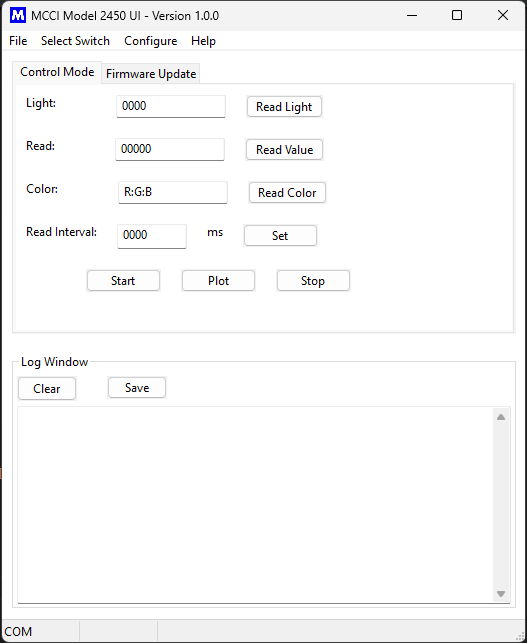
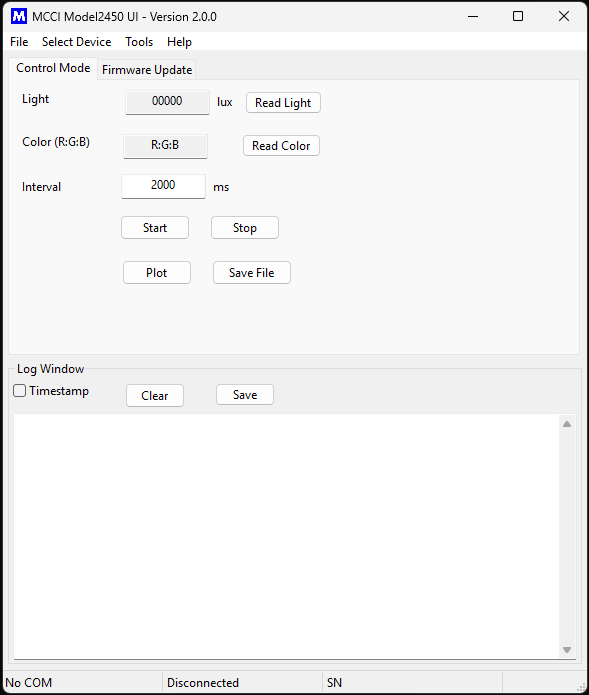
updated README.md

diff --git a/README.md b/README.md
@@ -79,6 +79,13 @@ the Model 2450 allows you to test the Brightness and color of video displays on 
 
 ## Release History
 
+- v2.0.0 Release Model 2450 UI
+
+    -  [#4 adding plotting for stream ](https://github.com/mcci-usb/model2450-ui/commit/d837fcad54a1a84dd0a923c8f14cc0e69c29011c)
+    -  [#6 Model2450 search](https://github.com/mcci-usb/model2450-ui/commit/e47b86699ee8f850378dfbb29ad00de6c4a3fdc9)
+    - [#7 Add Timestampe](https://github.com/mcci-usb/model2450-ui/commit/cb856f3cb22b2ad906e27d251c203b86fca10121)
+
+
 - v1.0.0 initial release of Model 2450 UI.
 
     - Initial Release.
